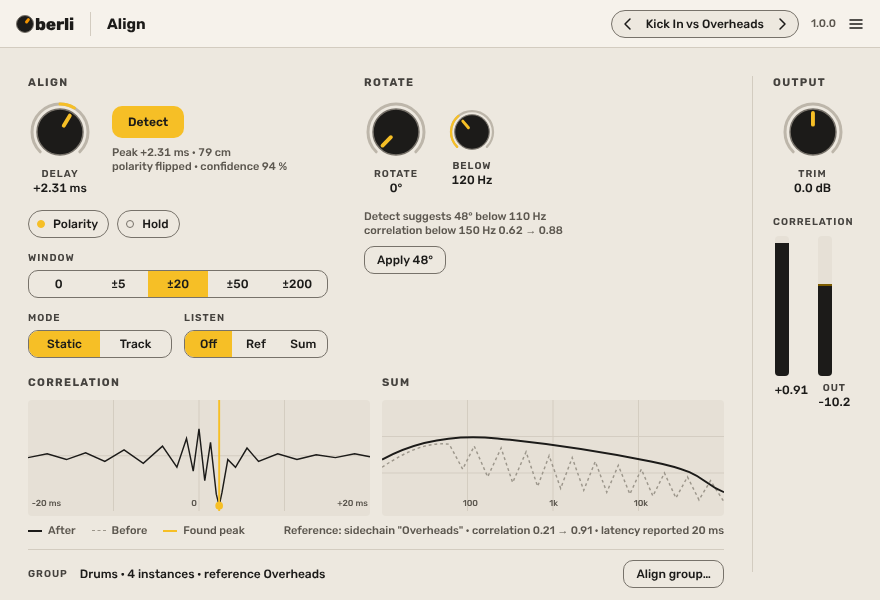
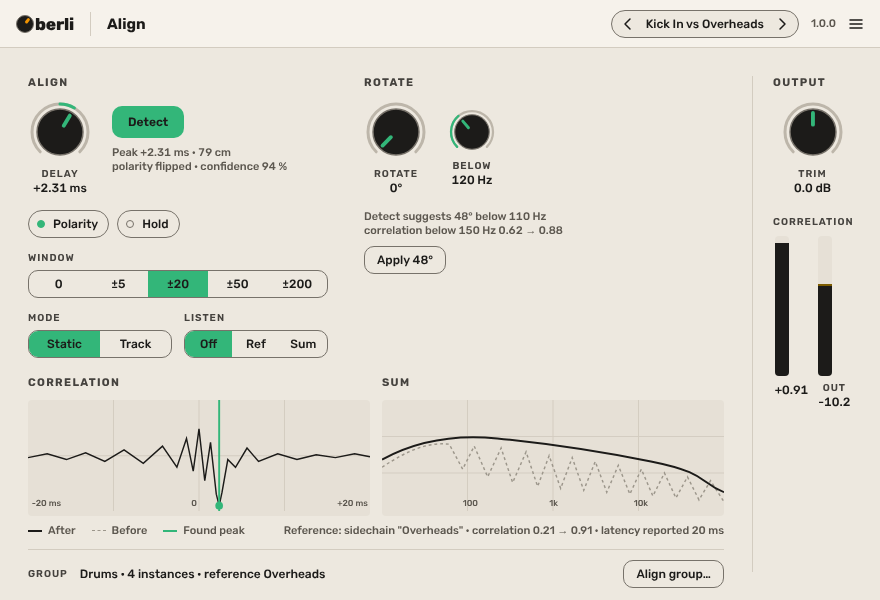
Category accent: sage (mix tools)
Oberli Audio moves from one accent per plugin to one accent per category
(decided 2026-11-01): mango brand, tangerine instruments, banana creative
effects, sage mix tools, peacock analysis and monitoring. CLAUDE.md and
the sketch frames updated; the registry and brand sheet follow in
bob-skills.

Claude-Session: https://claude.ai/code/session_01L1he38gxGMRoz4WAYr3LiS

diff --git a/docs/sketch.md b/docs/sketch.md
@@ -1,6 +1,6 @@
 # Align - automatic phase alignment (Tier S sketch)
 
-Tier S, gate G0-G2 sketch. Oberli Audio effect, Bone theme, accent saffron #F6BF26 (jade: A B see, iris: Less S, mango: Horizon Pad; check the Design System artifact). Static frame: `align@1x.png` (880 x 600 at 100 %), `align@2x.png` for Retina viewing. Sound side: sound-design-bob is needed for the correlation estimator, the fractional delay and the all-pass; this sketch states what the DSP must do and the evidence that proves it.
+Tier S, gate G0-G2 sketch. Oberli Audio effect, Bone theme, accent Sage #33B679 (mix tools, category scheme confirmed 2026-11-01). Static frame: `align@1x.png` (880 x 600 at 100 %), `align@2x.png` for Retina viewing. Sound side: sound-design-bob is needed for the correlation estimator, the fractional delay and the all-pass; this sketch states what the DSP must do and the evidence that proves it.
 
 ## 1. G0 brief
 
@@ -32,7 +32,7 @@ Tier S, gate G0-G2 sketch. Oberli Audio effect, Bone theme, accent saffron #F6BF
 
 1. **Window** 880 x 600 at 100 %, Bone, compact; two display wells side by side.
 2. **Hero** is what the ear cannot judge: the correlation curve with the found peak (a downward peak means the polarity is flipped, and the display shows it as such) and the summed spectrum before (dashed) and after (ink), where the comb notches vanish. The numbers under Detect say it in words: "Peak +2.31 ms · 79 cm · polarity flipped · confidence 94 %".
-3. **Accent** saffron on the set and active only: Delay's value arc and pointer, the Detect primary button, lit LEDs, selected segments, the found-peak marker. The correlation meter is ink.
+3. **Accent** Sage on the set and active only: Delay's value arc and pointer, the Detect primary button, lit LEDs, selected segments, the found-peak marker. The correlation meter is ink.
 4. **Sections** in signal-flow order from the table's groups: Align, Rotate, the displays (Correlation, Sum, no parameters), Group (one row with a drawer), Output (Trim 64 px, correlation and level meters; no Mix knob: utility plugin without a wet path, the line the A B see sketch proposes for the brand sheet).
 5. **States**: suggestion (the Rotate section shows the proposed value and an Apply secondary button after a Detect; after Apply the button disappears and the knobs carry the value), modified (pill dims), drawer (presets from the left; the Group drawer from the right, 380 px, lists the instances of the group with name, delay, polarity, confidence, reference marker and "Align group"), About (charcoal page), bypass, no sidechain (Detect disabled, the readout says "Route the reference mic into the sidechain input", correlation well empty), detecting (a hairline progress under the Detect button, 200 ms), Track mode (the Delay knob moves on its own and shows a small `mod`-coloured ring segment for the tracked offset around the user's base value, so the user sees what Track adds), Listen Ref or Sum (header pill shows "Listening: Ref" / "Sum" in `ink-subtle`).
 
@@ -133,7 +133,7 @@ in ──► polarity ──► fractional delay (Window + Delay) ──► all-
 
 ## 7. Open decisions for Björn
 - Decided 2026-11-01: name Align (slug `align`, plugin ID `Align`).
-- Accent: saffron proposed.
+- Accent: Sage #33B679, by the category scheme (decided 2026-11-01): one accent per category, mix tools.
 - Decided 2026-11-01: Window gets "0 (live)" (zero latency, positive delay only) for the live-stream mix; Group is Tier F, P ships sidechain only.
 - Decided 2026-11-01: Detect proposes Rotate and Below with the measured low-band gain; Apply accepts it.
 

diff --git a/CLAUDE.md b/CLAUDE.md
@@ -6,7 +6,7 @@ Guidance for Claude Code in this repository.
 
 Align (Oberli Audio), an effect plugin (VST3; the formats ship.toml lists), built with
 JUCE pinned by commit (CMakeLists.txt) and started from the family template
-(Oberli-Audio/plugin-template). Theme bone, accent saffron (#F6BF26), plugin code
+(Oberli-Audio/plugin-template). Theme bone, accent sage (#33B679; category accent for mix tools, decided 2026-11-01, registry update pending in bob-skills), plugin code
 `Algn`, bundle id `com.oberliaudio.align`: all from the family registry (ship-bob
 `registry/plugins.toml`), never changed after the first release.
 
